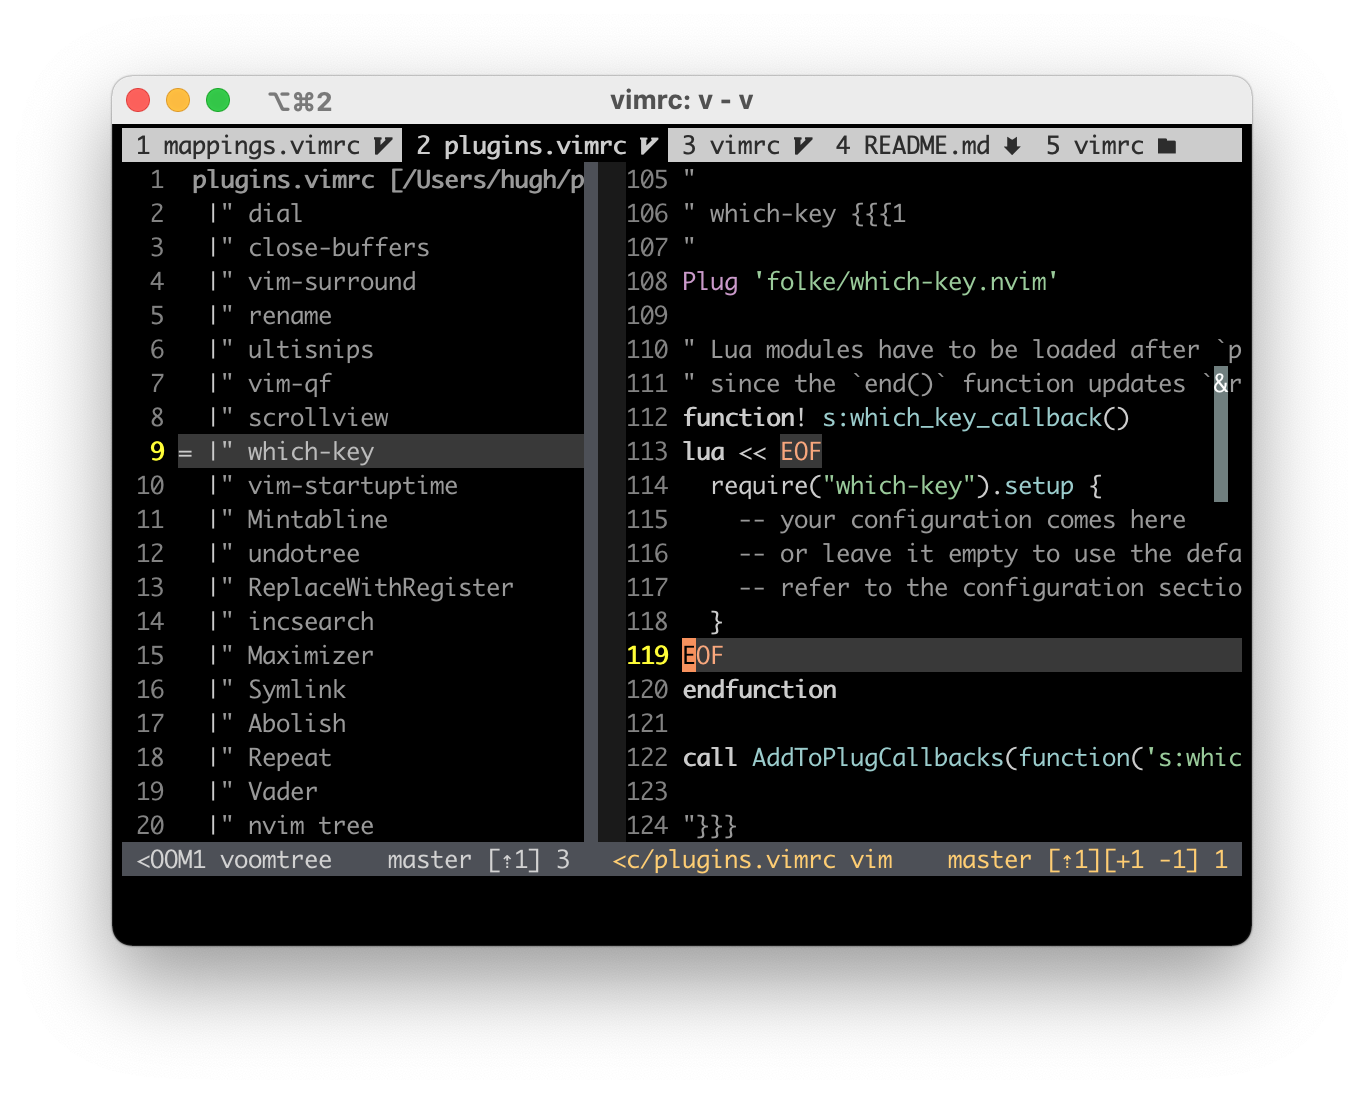
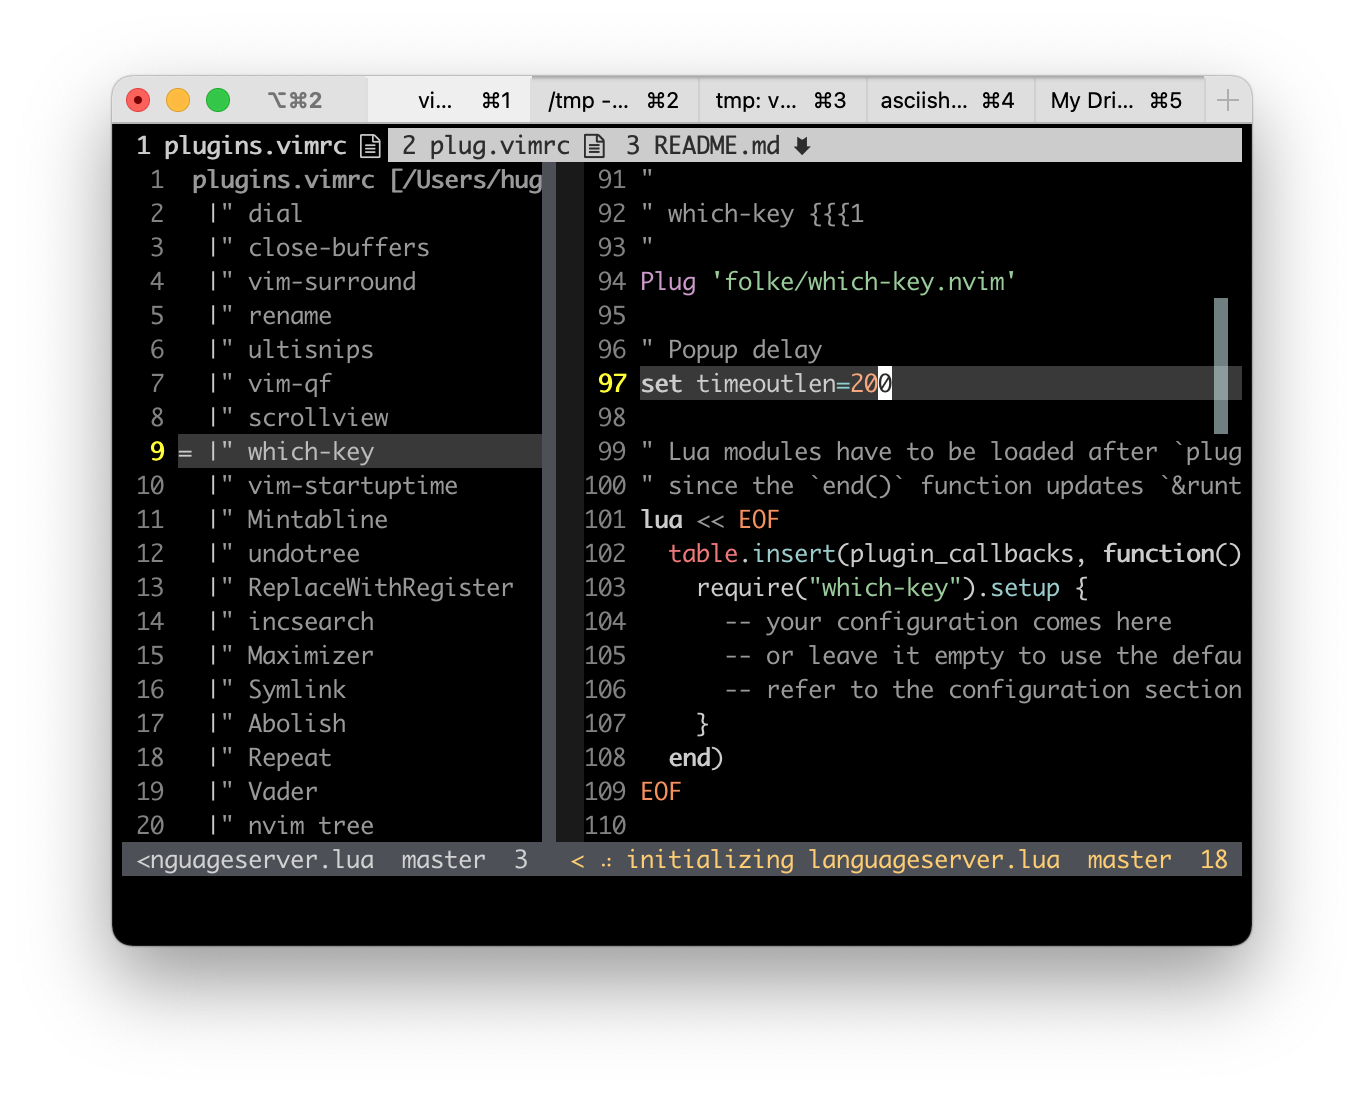
Use lua callback for lua plugins instead of vim callback
and update readme and screenshots

Changed region(s): [[0.0924, 0.0622, 0.9238, 0.808], [0.8622, 0.404, 0.9238, 0.4662]]

diff --git a/README.md b/README.md
@@ -95,9 +95,9 @@ Project Structure
 Plugin Code Locality with Plug
 ---
 
-### Lua 
+### Lua `require`
 
-Each section in `plugins.vimrc` and `devplugins.vimrc` has one or more [Plug](https://github.com/junegunn/vim-plug) commands and related mappings and configuration. Helper callback functions are used for code that has to be run after `plug#end()`, e.g., the Lua `require()` function has to run after `plug#end()` since Lua modules can be loaded after `runtimepath` are set which is done by the `end()` function.
+Each section in `plugins.vimrc` and `devplugins.vimrc` has one or more [Plug](https://github.com/junegunn/vim-plug) commands and related mappings and configuration. A helper callback function is used for code that has to be run after `plug#end()`, e.g., the Lua `require()` function has to run after `plug#end()` since Lua modules can be loaded after `runtimepath` are set which is done by the `end()` function.
 
 [VOoM](https://github.com/vim-scripts/VOoM) is used to show outlines.
 
@@ -105,7 +105,7 @@ Each section in `plugins.vimrc` and `devplugins.vimrc` has one or more [Plug](ht
 
 ### Highlights
 
-`highlight` commands have to be executed after a colorscheme command and they should be executed again when the colorscheme is changed. To achieve this, `highlight` commands are in an autocommands following [this advice](https://gist.github.com/romainl/379904f91fa40533175dfaec4c833f2f). 
+`highlight` commands have to be executed after a colorscheme command and they should be executed again when the colorscheme is changed. To achieve this, `highlight` commands are in an autocommands following [this advice](https://gist.github.com/romainl/379904f91fa40533175dfaec4c833f2f).
 
 For example,
 
